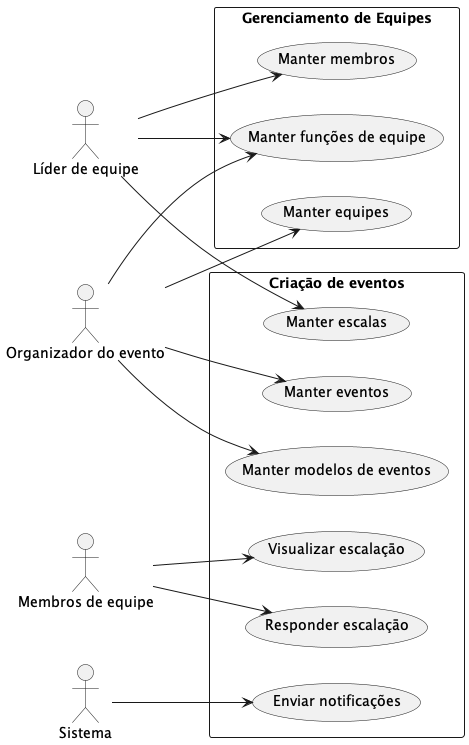
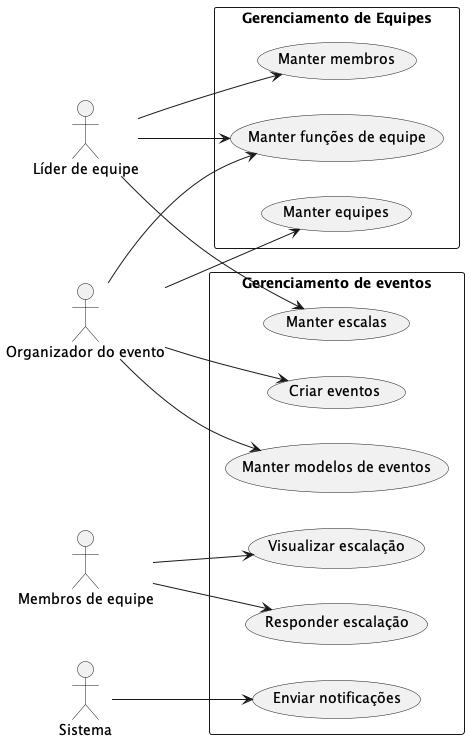
wip

diff --git a/technical-report/sources/event-planner/frontend/src/components/Menu.tsx b/technical-report/sources/event-planner/frontend/src/components/Menu.tsx
@@ -19,12 +19,25 @@ export function Menu() {
                 <a className="nav-link active" aria-current="page" href="/">Início</a>
               </li>
               <li className="nav-item dropdown">
+                <a className="nav-link dropdown-toggle" href="#" role="button" data-bs-toggle="dropdown" aria-expanded="false">
+                  Equipes
+                </a>
+                <ul className="dropdown-menu">
+                  <li><a className="dropdown-item disabled" href="#">Manter equipes</a></li>
+                  <li><a className="dropdown-item disabled" href="#">Manter funções de equipe </a></li>
+                  <li><a className="dropdown-item disabled" href="#">Manter funções de equipe </a></li>
+                </ul>
+              </li>
+              <li className="nav-item dropdown">
                 <a className="nav-link dropdown-toggle" href="/events" role="button" data-bs-toggle="dropdown" aria-expanded="false">
                   Eventos
                 </a>
                 <ul className="dropdown-menu">
                   <li><a className="dropdown-item" href="/events">Eventos Planejados</a></li>
-                  <li><a className="dropdown-item" href="/new-event">Criar Evento</a></li>
+                  <li><a className="dropdown-item" href="/new-event">Criar Eventos</a></li>
+                  <li><a className="dropdown-item disabled" href="#">Manter modelos de eventos</a></li>
+                  <li><a className="dropdown-item disabled" href="#">Visualiar escalação</a></li>
+
                 </ul>
               </li>
             </ul>
